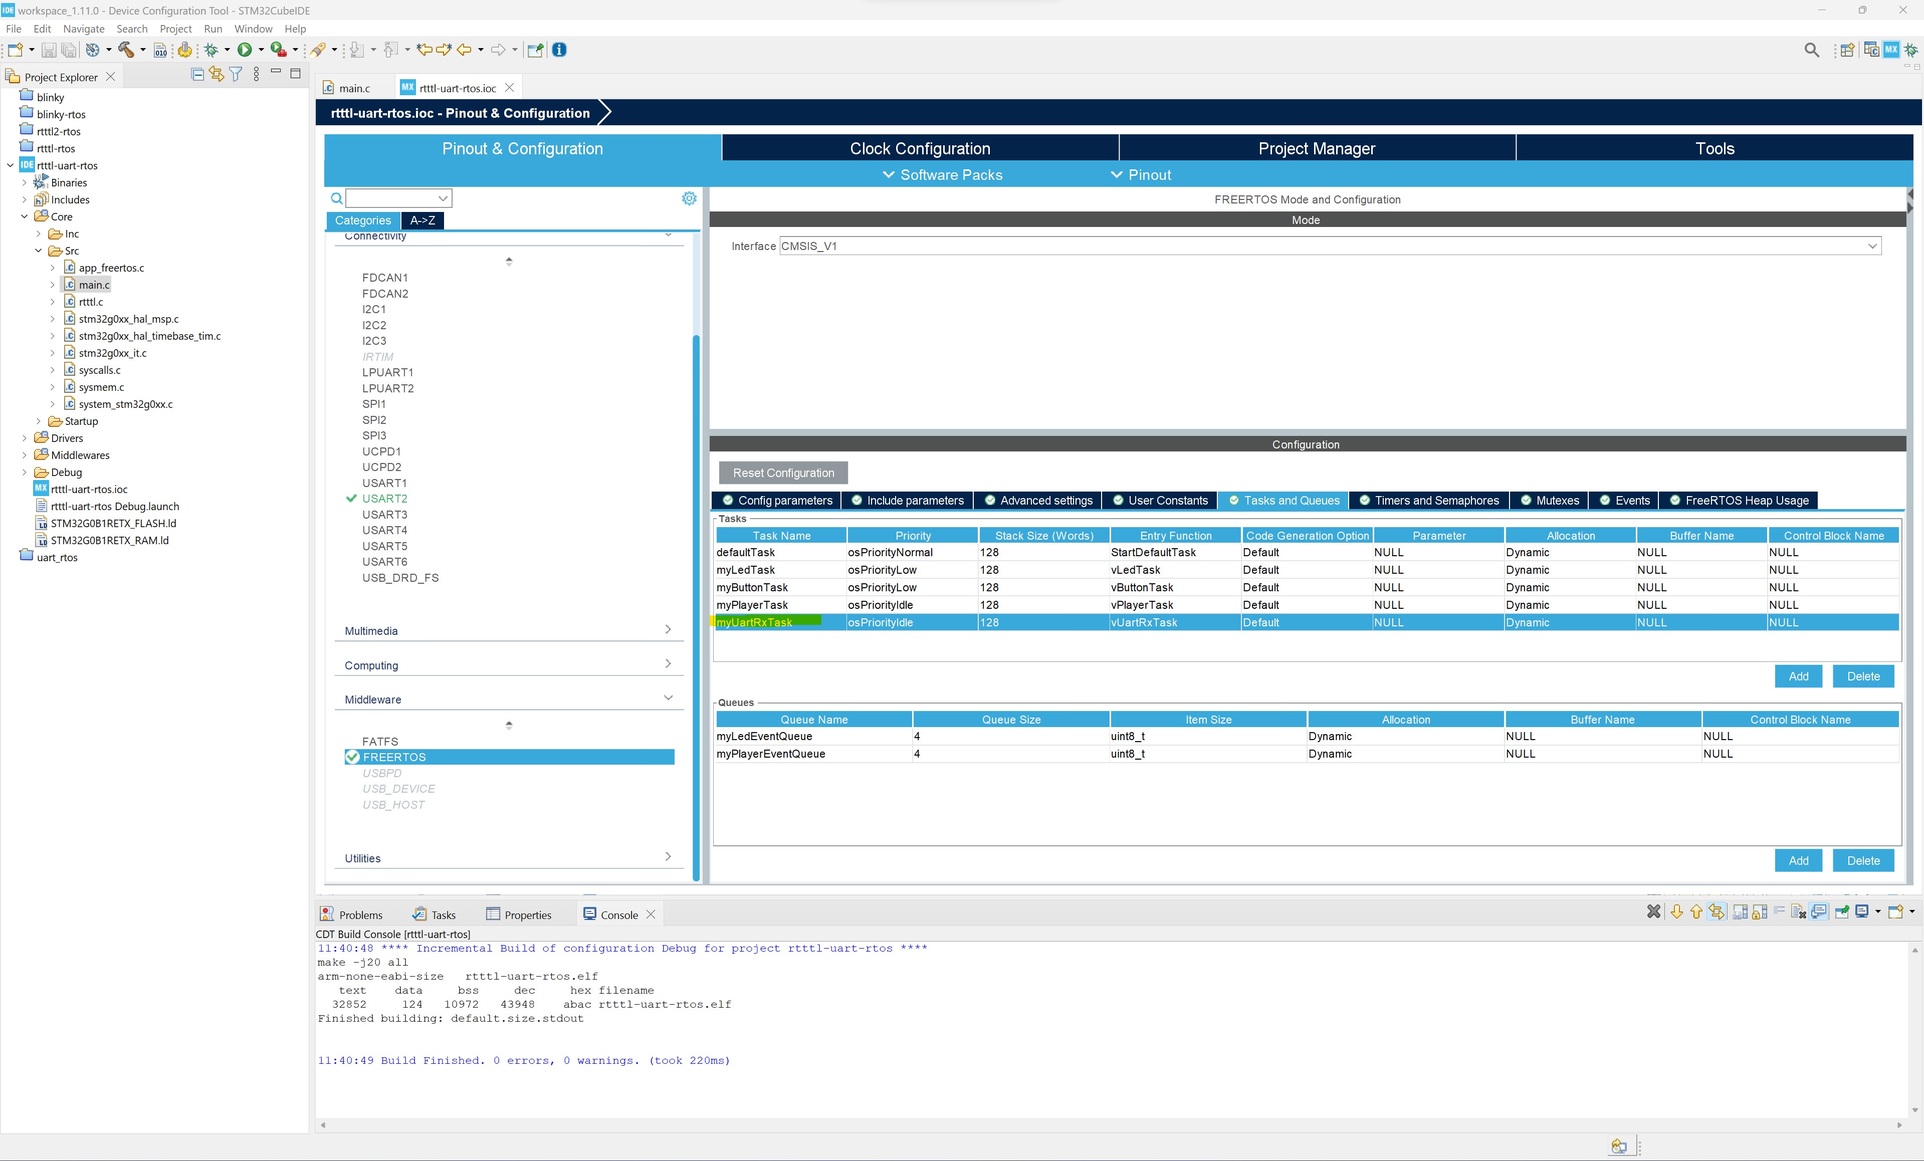
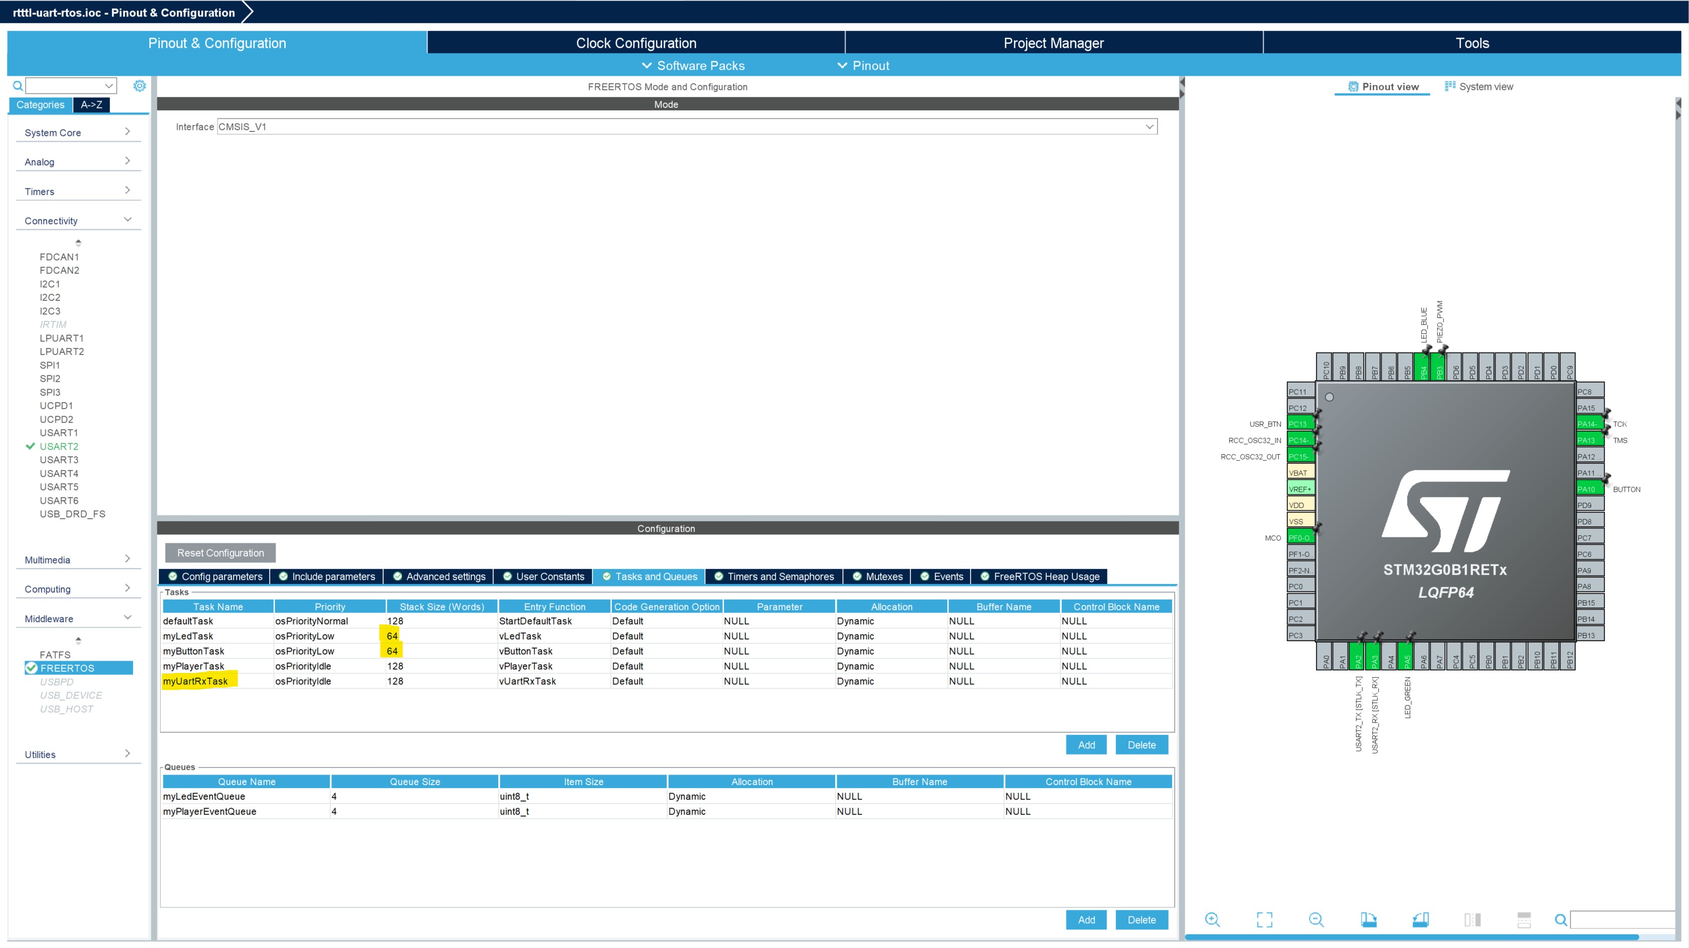
Ekspansjonskort
Oppdatert workshop til å bruke et ekspansjonskort i stedenfor kabelsalat og Aliexpress komponenter.

diff --git a/doc/3_blinky_rtos.md b/doc/3_blinky_rtos.md
@@ -9,12 +9,19 @@ Rammeverket har også verktøy som meldingskøer for å få oppgavene til å kom
 
 Mye spennende å lære om dette og en god referanse er å finne [her](http://www.disca.upv.es/aperles/arm_cortex_m3/curset/CMSIS/Documentation/RTOS/html/index.html).
 
-Vi skal lage 2 oppgaver(en knapp/button reader og en led blinker) og disse skal kommunisere med hverandre via en meldingskø. Button oppgaven skal gi beskjed til køen om når den oppdager en knapp-ned eller en knapp-opp event.  LED oppgaven skal ved knapp-ned event(definert med en '1') skru på den grønne lysdioden og ved knapp-opp event(definert med en '2') skru den av igjen.  
+Vi skal lage 2 oppgaver(en knapp/button reader og en led blinker) og disse skal kommunisere med hverandre via en meldingskø. Button oppgaven skal gi beskjed til køen om når den oppdager en knapp-ned eller en knapp-opp event.  LED oppgaven skal ved knapp-ned event(definert med en '1') skru på den blå lysdioden på ekspansjonskortet og ved knapp-opp event(definert med en '2') skru den av igjen.  
 
 Let's get going!
 
 ## Hardware Setup
-Koble Nucleo kortet til din pc med medfølgende USB kabel. På kortet er en grønn LED med designasjon LD4. Denne skal LED task kontrollere.  Det finnes også en trykk knapp med designasjon USER.  Denne skal Button task lese av.
+Påse at utviklingskortet er frakoblet USB. Monter ekspansjonskortet med Knowit logo på toppen av Nucleo utviklingskortet. 
+
+Se under for et bilde av riktig montert ekspansjonskort på utviklingskortet.
+
+![Nucleo med ekspansjon](./montert_ekpansjonskort.jpg)
+
+
+Koble Nucleo kortet til din pc med medfølgende USB kabel. På ekspansjonskortet er en blå LED med designasjon LED(koblet til pinne PB4). Denne skal LED task kontrollere.  Det finnes også en trykk knapp med designasjon BUTTON(koblet til pinne PA10).  Denne skal Button task lese av.
 
 ## Lage Et Nytt Prosjekt
 - Åpne opp STM32CubeIDE
@@ -24,21 +31,23 @@ Koble Nucleo kortet til din pc med medfølgende USB kabel. På kortet er en grø
 - Under Boards List, så vil vårt utviklingskort dukke opp.  Velg dette og trykk ```Next``` knappen.
 - Du vil nå få et vindu opp med ønsket project parametere.  Skriv inn ```blinky_rtos``` som projekt navn og la resten være med defaults. Trykk ```Finish``` knappen.
 - STM32CubeIDE vil nå laste ned nødvendige filer og lage prosjektet ditt.
-- I IDEen, så vil du bli presentert med en grafisk representasjon av blinky_rtos.ios filen, som er filen man spesifiserer microcontrollerens hardware ressurser man ønsker å bruke i prosjektet. Siden vi har valgt et allerede kjent utviklingskort, så kan man se at pinnene på mikrokontrolleren er allerede satt opp.
-- Legg merke til pinne ```PA5```, som har fått et alias navn ```LED_GREEN```. Denne skal vi bruke til LED tasken vår.
-- Legg merke til pinne ```PC13```, som har fått et alias navn ```SYS_WKUP2```.  Denne skal vi bruke til Button tasken vår. Venstre klikk på denne pinnen og velg så ```GPIO_Input```. Høyre klikk på denne pinnen og velg ```Enter User Label``` og skriv så ```USR_BTN```. MERK: Tidligere versjoner av STM32Cube SDK har definert denne pinnen som ```USR_BTN``` fra før, så bare dobbelsjekk at den er definert som en ```GPIO_Input```.
-- Ekspander ```System Core``` og underkategorien ```GPIO```. Klikk på ```PC13``` og velg ```pull-up``` under ```Confguration```.
+- I IDEen, så vil du bli presentert med en grafisk representasjon av blinky_rtos.ios filen, som er filen man spesifiserer microcontrollerens hardware ressurser man ønsker å bruke i prosjektet. Siden vi har valgt et allerede kjent utviklingskort, så kan man se at noen av pinnene på mikrokontrolleren er allerede satt opp.
+- Velg pinne ```PB4```. Gi denne et alias navn ved å høyre klikke på pinnen og velg 'Enter User Label'. Skriv inn ```LED_BLUE```. Venstre klikk på pinnen og velg ```GPIO_Output``` som funksjon for denne pinnen.  Denne skal vi bruke til LED tasken vår.
+- Velg pinne ```PA10```. Gi denne et alias navn ved å høyre klikke på pinnen og velg 'Enter User Label'. Skriv inn ```BUTTON```. Venstre klikk på pinnen og velg ```GPIO_Input``` som funksjon for denne pinnen.  Denne skal vi bruke til Button tasken vår.
+- Ekspander ```System Core``` og underkategorien ```GPIO```. Klikk på ```PA10``` og velg ```pull-down``` under ```Configuration```.
 - Ekspander ```Middleware``` folderen til venstre og velg ```FREERTOS```.
 - I ```FREERTOS Mode and Configuration``` menyen, så velger du ```CMSIS_V1``` i drop-down boksen.
-- Under ```Configuration``` seksjonen, så legger du til 2 tasks med ```Add``` knappen. Egenskapene du skal fylle inn kan du se i skjermbildet under. Lag så en Queue med tilhørende ```Add``` knapp, egenskapene du skal fylle inn ser du i skjermbildet under.
+- Under ```Configuration``` seksjonen og ```Tasks and Queues``` taben,  så legger du til 2 tasks med ```Add``` knappen. Egenskapene du skal fylle inn kan du se i skjermbildet under. Lag så en ```Queue``` med tilhørende ```Add``` knapp, egenskapene du skal fylle inn ser du i skjermbildet under.
 
 ![RTOS Config](./rtos_config.jpg)
 
+- Under ```Advanced settings``` taben i samme seksjon, så setter du feltet ```USE_NEWLIB_REENTRANT``` til ```Enabled```. Hvis vi ikke gjør dette, så vil verktøyet begynne å klage litt under kode genereringen.
 - Under ```System Core``` menyen på venstre siden, velg så ```SYS``` kategorien. Finn ```Time Base Source``` settingen og sett denne til ```TIM6```.  Se skjermbilde under for hvordan dette ser ut.  Dette steget gjøres fordi RTOS bruker en timer i controlleren for å holde styr på tiden som går under navnet SYSTICK.  HAL bibliotekene bruker i utgangspunktet også SYSTICK timeren, men dette endrer vi i dette steget til TIM6 timeren. Nå slipper RTOS og HAL funskjonene å gå i beina på hverandre!
 
 ![Time Base Setup](./sys_setup_rtos.jpg)
 
-- Under ```Project Explorer``` på venstre siden, ekspander ```Core``` folderen og så ```Src``` folderen. Du vil nå finne ```main.c``` filen, dobbelklikk på denne. Det er mulig du får en advarsel om ```USE_NEWLIB_REENTRANT```, ignorer denne for denne øvelsen.
+- Lagre endringene som har blitt gjort(ctrl s). Verktøyet vil nå spørre deg om den skal generere kode. Svar ja til dette. 
+- Under ```Project Explorer``` på venstre siden, ekspander ```Core``` folderen og så ```Src``` folderen. Du vil nå finne ```main.c``` filen, dobbelklikk på denne. Det er mulig du får en advarsel om ```USE_NEWLIB_REENTRANT```. Hvis det er tilfellet, så dobbelsjekk at du fikk gjort steget med å enable ```USE_NEWLIB_REENTRANT``` i tidligere steg.
 - Sjekk at prosjektet kompilerer ved å velge meny tittelen ```Project``` og så videre ```Build All```.
 - Hvis det går bra, så er du klar til å legge til litt kode!  Finn følgende seksjoner under i ```main.c``` filen og kopier inn kode som spesifisert.
 
@@ -59,6 +68,7 @@ Legg til følgende kode:
 /* USER CODE END PM */
 ```
 
+Finn denne seksjonen:
 ```Button Task```
 ```cpp
 ...
@@ -75,7 +85,7 @@ void vButtonTask(void const * argument)
 }
 ```
 
-Legg til følgende kode:
+Legg til følgende kode for denne seksjonen:
 
 ```cpp
 ...
@@ -90,7 +100,7 @@ void vButtonTask(void const * argument)
   for(;;)
   {
     osDelay(100);
-    curr_data = HAL_GPIO_ReadPin(USR_BTN_GPIO_Port, USR_BTN_Pin);
+    curr_data = HAL_GPIO_ReadPin(BUTTON_GPIO_Port, BUTTON_Pin);
 
     if (curr_data == GPIO_PIN_RESET && prev_data == GPIO_PIN_SET)
       osMessagePut(myEventQueueHandle, (uint32_t) BUTTON_PUSH_EVENT, 5);
@@ -104,6 +114,7 @@ void vButtonTask(void const * argument)
 }
 ```
 
+Finn denne seksjonen:
 ```Led Task```
 ```cpp
 ...
@@ -144,10 +155,10 @@ void vLedTask(void const * argument)
       curr_data = (uint8_t) event.value.v;
 
       if (curr_data == BUTTON_PUSH_EVENT)
-        HAL_GPIO_WritePin(LED_GREEN_GPIO_Port, LED_GREEN_Pin, GPIO_PIN_SET);
+        HAL_GPIO_WritePin(LED_BLUE_GPIO_Port, LED_BLUE_Pin, GPIO_PIN_SET);
 
       if (curr_data == BUTTON_RELEASE_EVENT)
-        HAL_GPIO_WritePin(LED_GREEN_GPIO_Port, LED_GREEN_Pin, GPIO_PIN_RESET);
+        HAL_GPIO_WritePin(LED_BLUE_GPIO_Port, LED_BLUE_Pin, GPIO_PIN_RESET);
     }
   }
   /* USER CODE END vLedTask */
@@ -156,5 +167,5 @@ void vLedTask(void const * argument)
 - Sjekk at prosjektet kompilerer ved å velge meny tittelen ```Project``` og så videre ```Build All```.
 - Hvis alt er ok, så kan du nå velge meny tittelen ```Run``` og så videre ```Run```. En pop up kan dukke opp med valg av debug konfigurasjon, aksepter defaults og gå videre.
 - I noen tilfeller så vil miljøet spørre om du ønsker å oppdatere firmware på debuggeren som sitter på utviklingskortet, si ja til dette.
-- Når prosessen er ferdig, så lastes din kode opp til kortet.  Du vil nå se at LED4 på kortet blinke av og på avhengig av når du trykker inn eller slipper knappen!
+- Når prosessen er ferdig, så lastes din kode opp til kortet.  Du vil nå se at BLUE LED på ekspansjonskortet blinke av og på avhengig av når du trykker inn eller slipper BUTTON knappen!
 - Gratulerer, du har nå laget et enkelt prosjekt med et sanntids operativ system for en STM32 mikrokontroller!  Dette kan være et spennende utganspunkt for å lage mere komplekse prosjektet med for eksempel en oppgave som implementerer en tilstandsmaskin basert på sensor verdier som puttes inn i en kø fra en oppgave som leser sensorer. 

diff --git a/doc/4_rtttl_player.md b/doc/4_rtttl_player.md
@@ -3,27 +3,14 @@
 ## Oversikt
 I denne leksjonen skal du lære hvordan du kan lage en artig [RTTTL](https://en.wikipedia.org/wiki/Ring_Tone_Text_Transfer_Language) player ved å bruke alt du har lært i de tidligere leksjonene pluss en del nytt vi skal gå igjennom i denne leksjonen. 
 
-Vi skal benytte oss av 3 RTOS tasks(oppgaver).  Vi skal gjenbruke oppgavene fra forrige øvelse, dvs knapp og led oppgavene.  Den tredje oppgaven skal vi lage nå og den vil spille en sang ved å sette forskjellige telle verdier på en timer.  Utgangen på timeren vil generere firkantpulser med varierende duty cycle som vil generere forskjellige toner på piezo elementet som vi kobler til.  Gøy!
+Vi skal benytte oss av 3 RTOS tasks(oppgaver).  Vi skal gjenbruke oppgavene fra forrige øvelse, dvs knapp og led oppgavene.  Den tredje oppgaven skal vi lage nå og den vil spille en sang ved å sette forskjellige telle verdier på en timer.  Utgangen på timeren vil generere firkantpulser med varierende duty cycle som vil generere forskjellige toner på piezo elementet som finnes på ekspansjonskortet.  Gøy!
 
-Et vanlig oppsett når man utvikler i RTOS er at hver task har sin egen input queue som de titter på for nye ting oppgaven skal gjøre.  I denne oppgaven så følger vi dette med at led og player taskene har hver sin queue, hvor button task vil legge til meldinger i disse for hvert knappetrykk.
+Et vanlig oppsett når man utvikler i RTOS er at hver task har sin egen input queue som de titter på for nye ting oppgaven skal gjøre. I denne oppgaven så følger vi dette med at led og player taskene har hver sin queue, hvor button task vil legge til meldinger i disse for hvert knappetrykk.
 
 Let's get going!
 
 ## Hardware Setup
-Koble Nucleo kortet til din pc med medfølgende USB kabel. Koble utviklingskortet til piezo elementet med den 3 tråds ledningen som anvist på tegningene under.
-
-Overview
-![Piezo Hook Up Overview](./piezo_overview.jpg)
-
-Closeup
-![Piezo Hook up Closeup](./piezo_closeup.jpg)
-
-### Koblingstabell
-| Pinne, Utviklerkort | Pinne, Piezo | Signal |
-|---------------------|--------------|--------|
-|          20         |      GND     |   GND  |
-|          16         |      VCC     |  3.3V  |
-|          1          |      I/O     |   I/O  |
+Koble Nucleo kortet med ekspansjonskortet montert til din pc med medfølgende USB kabel.
 
 ## Lage Et Nytt Prosjekt
 - Åpne opp STM32CubeIDE
@@ -31,10 +18,11 @@ Closeup
 - Finn og velg ```blinky_rtos.ios``` filen fra forrige øvelse.
 - Du vil nå få et vindu opp med ønsket project parametere.  Skriv inn ```rtttl-rtos``` som projekt navn og la resten være med defaults. Trykk ```Finish``` knappen.
 - STM32CubeIDE vil nå laste ned nødvendige filer og lage prosjektet ditt.
-- Det er mulig IDEen vil gi deg en warning, klikk på at du vil fortsatt generere kode.
+- Det er mulig IDEen vil gi deg en advarsel, klikk på at du vil fortsatt generere kode.
 - I IDEen, så vil du bli presentert med en grafisk representasjon av rtttl_rtos.ios filen, som er filen man spesifiserer microcontrollerens hardware ressurser man ønsker å bruke i prosjektet. Siden vi har valgt et allerede kjent utviklingskort, så kan man se at pinnene på mikrokontrolleren er allerede satt opp.
-- Venstre klikk på PC10 pinnen. Velg ```TIM1_CH3 ```.  Her spesifiserer vi at vi ønsker å bruke denne pinnen som en utgang fra hardware timeren TIM1 og utgang 3 fra denne. Du vil se at denne skifter farge til gul, dette fordi vi ikke har konfigurert timeren enda.
-- På venstre side, ekspander ```Timers ``` dropdown og velg ```TIM1```. På ```Channel3```, velg ```PWM Generation CH3```.  Sjekk bilde under for verifikasjon. Under ```Configuration``` seksjonen, påse at PWM Mode 1 er valgt for ```PWM Generation Channel 3```.
+- Venstre klikk på ```PB3``` pinnen. Velg ```TIM1_CH2 ```.  Her spesifiserer vi at vi ønsker å bruke denne pinnen som en utgang fra hardware timeren TIM1 og utgang 2 fra denne. Du vil se at denne skifter farge til gul, dette fordi vi ikke har konfigurert timeren enda.
+- Høyre klikk på ```PB3``` pinnen og velg ```Enter User Label```. Skirv inn navnet ```PIEZO_PWM```.
+- På venstre side, ekspander ```Timers ``` dropdown og velg ```TIM1```. På ```Channel2```, velg ```PWM Generation CH2```.  Sjekk bilde under for verifikasjon. Under ```Configuration``` seksjonen, påse at PWM Mode 1 er valgt for ```PWM Generation Channel 2```.
 
 ![TIM1 setup](./timer_setup.jpg)
 
@@ -47,6 +35,7 @@ Closeup
 
 ![RTOS Config Player](./sys_setup_rtos_player.jpg)
 
+- Sjekk at ```USE_NEWLIB_REENTRANT``` er fortsatt satt til ```Enabled``` under ```Advanced Settings```.
 - Under ```Project Explorer``` på venstre siden, ekspander ```Core``` folderen og så ```Src``` folderen. Du vil nå finne ```main.c``` filen, dobbelklikk på denne. IDEen vil nok spørre om du vil generere kode først, si ja til dette.
 - Sjekk at prosjektet kompilerer ved å velge meny tittelen ```Project``` og så videre ```Build All```.
 - Hvis det går bra, så er du klar til å legge til litt mere kode!  Finn følgende seksjoner under i ```main.c``` filen og kopier inn kode som spesifisert.
@@ -120,7 +109,7 @@ Legg til følgende kode:
 ...
 /* USER CODE BEGIN 2 */
 rtttl_info.tim_ref = &htim1;
-rtttl_info.tim_channel = TIM_CHANNEL_3;
+rtttl_info.tim_channel = TIM_CHANNEL_2;
 /* USER CODE END 2 */
 
 ```
@@ -140,7 +129,7 @@ void vButtonTask(void const *argument) {
   /* Infinite loop */
   for (;;) {
     osDelay(100);
-    curr_data = HAL_GPIO_ReadPin(USR_BTN_GPIO_Port, USR_BTN_Pin);
+    curr_data = HAL_GPIO_ReadPin(BUTTON_GPIO_Port, BUTTON_Pin);
 
     if (curr_data == GPIO_PIN_RESET && prev_data == GPIO_PIN_SET) {
       osMessagePut(myLedEventQueueHandle, (uint32_t) BUTTON_PUSH_EVENT, 0);
@@ -179,10 +168,10 @@ void vLedTask(void const *argument) {
       curr_data = (uint8_t) event.value.v;
 
       if (curr_data == BUTTON_PUSH_EVENT)
-        HAL_GPIO_WritePin(LED_GREEN_GPIO_Port, LED_GREEN_Pin, GPIO_PIN_SET);
+        HAL_GPIO_WritePin(LED_BLUE_GPIO_Port, LED_BLUE_Pin, GPIO_PIN_SET);
 
       if (curr_data == BUTTON_RELEASE_EVENT)
-        HAL_GPIO_WritePin(LED_GREEN_GPIO_Port, LED_GREEN_Pin, GPIO_PIN_RESET);
+        HAL_GPIO_WritePin(LED_BLUE_GPIO_Port, LED_BLUE_Pin, GPIO_PIN_RESET);
     }
   }
   /* USER CODE END vLedTask */
@@ -233,5 +222,5 @@ void vPlayerTask(void const *argument) {
 - Sjekk at prosjektet kompilerer ved å velge meny tittelen ```Project``` og så videre ```Build All```.
 - Hvis alt er ok, så kan du nå velge meny tittelen ```Run``` og så videre ```Run```. En pop up kan dukke opp med valg av debug konfigurasjon, aksepter defaults og gå videre.
 - I noen tilfeller så vil miljøet spørre om du ønsker å oppdatere firmware på debuggeren som sitter på utviklingskortet. Si ja til dette.
-- Når prosessen er ferdig, så lastes din kode opp til kortet.  Du vil nå se at LD4/LED GREEN på kortet blinke av og på avhengig av når du trykker inn eller slipper knappen. Du vil også høre en sang spille hvis alt er riktig kodet og koblet opp! Ved å trykke inn knappen igjen, så vil avspillingen avsluttes. 
+- Når prosessen er ferdig, så lastes din kode opp til kortet.  Du vil nå se at LED_BLUE på kortet blinke av og på avhengig av når du trykker inn eller slipper knappen. Du vil også høre en sang spille hvis alt er riktig kodet og koblet opp! Ved å trykke inn knappen igjen, så vil avspillingen avsluttes. 
 - Gratulerer, du har nå laget et enkelt prosjekt med et sanntids operativ system for en STM32 mikrokontroller som spiller musikk!

diff --git a/doc/5_rtttl_player_uart.md b/doc/5_rtttl_player_uart.md
@@ -26,9 +26,12 @@ Vi gjenbruker samme oppsett som i leksjon 4.
 
 - Ekspander ```Middleware``` folderen til venstre og velg ```FREERTOS```.
 
-- Under ```Configuration``` seksjonen, så legger du til en ```Task``` med ```Add``` knappen i tillegg til de andre taskene vi definerte i forrige oppgave. Egenskapene du skal fylle inn kan du se i skjermbildet under.
+- Vi må justere stack reservasjonen til alle taskene for å få nok minne til applikasjonen. Under ```Configuration``` seksjonen, klikk på ```Config Parameters``` og endre verdien til ```MINIMAL_STACK_SIZE``` til 64.
+
+- Under ```Configuration``` seksjonen, så legger du til en ```Task``` med ```Add``` knappen i tillegg til de andre taskene vi definerte i forrige oppgave. Egenskapene du skal fylle inn kan du se i skjermbildet under. Husk å oppdatere stack size til led og button oppgavene til 64, slik bildet viser.
 
 ![Rtos_Uart_Task](./rtos_uart_task.jpg)
+
 
 - Under ```Project Explorer``` på venstre siden, ekspander ```Core``` folderen og så ```Src``` folderen. Du vil nå finne ```main.c``` filen, dobbelklikk på denne. IDEen vil nok spørre om du vil generere kode først, si ja til dette.
 - Sjekk at prosjektet kompilerer ved å velge meny tittelen ```Project``` og så videre ```Build All```.
@@ -114,7 +117,7 @@ Legg til følgende kode:
 ...
 /* USER CODE BEGIN 2 */
 rtttl_info.tim_ref = &htim1;
-rtttl_info.tim_channel = TIM_CHANNEL_3;
+rtttl_info.tim_channel = TIM_CHANNEL_2;
 // Initiate uart rx with interrupt
 HAL_UART_Receive_IT(&huart2, (uint8_t *)aRxBuffer, 1);
 /* USER CODE END 2 */
@@ -188,7 +191,7 @@ void vButtonTask(void const *argument) {
   /* Infinite loop */
   for (;;) {
     osDelay(100);
-    curr_data = HAL_GPIO_ReadPin(USR_BTN_GPIO_Port, USR_BTN_Pin);
+    curr_data = HAL_GPIO_ReadPin(BUTTON_GPIO_Port, BUTTON_Pin);
 
     if (curr_data == GPIO_PIN_RESET && prev_data == GPIO_PIN_SET) {
 			osMessagePut(myLedEventQueueHandle, (uint32_t) BUTTON_PUSH_EVENT, 0);
@@ -280,8 +283,8 @@ void vUartRxTask(void const * argument)
 - Sjekk at prosjektet kompilerer ved å velge meny tittelen ```Project``` og så videre ```Build All```.
 - Hvis alt er ok, så kan du nå velge meny tittelen ```Run``` og så videre ```Run```. En pop up kan dukke opp med valg av debug konfigurasjon, aksepter defaults og gå videre.
 - I noen tilfeller så vil miljøet spørre om du ønsker å oppdatere firmware på debuggeren som sitter på utviklingskortet. Si ja til dette.
-- Når prosessen er ferdig, så lastes din kode opp til kortet.  Du vil nå se at LD4/LED GREEN på kortet blinke av og på avhengig av når du trykker inn eller slipper knappen. Du vil også høre en sang spille hvis alt er riktig kodet og koblet opp! Ved å trykke inn knappen igjen, så vil avspillingen avsluttes.
-- Start opp en serie port terminal, som for eksempel ```Termite``` for Windows eller ```CoolTerm``` for andre platformer.
+- Når prosessen er ferdig, så lastes din kode opp til kortet.  Du vil nå se at LED BLUE på kortet blinke av og på avhengig av når du trykker inn eller slipper knappen. Du vil også høre en sang spille hvis alt er riktig kodet og koblet opp! Ved å trykke inn knappen igjen, så vil avspillingen avsluttes.
+- Start opp en serie port terminal, som for eksempel ```Termite``` for Windows eller ```CoolTerm``` for andre platformer. Velg 115200 som baud rate.
 - Send over følgende tekst over serieporten, det kan være enklere å skru på makro funksjonen i terminal programmet og programmere en F tast til å inneholde denne strengen.
 
 ```

diff --git a/doc/1_ide_primer.md b/doc/1_ide_primer.md
@@ -9,6 +9,8 @@ STM32CubeIDE består av et komplett miljø for å kunne drive med kode genererin
 ## Hardware
 Vi skal benytte oss av en enhet som heter en microcontroller i denne workshoppen. En microcontroller er kort fortalt en liten datamaskin integrert i en chip som inneholder alle komponenter(cpu, program minne, data minne og perifere input/output kretser) en trenger for å lagre og kjøre programmer og kommunisere med omverdenen.  Det finnes mange merker og typer og nå om dagen er kanskje AVR, ARM og ESP32 baserte microcontrollere de mest kjente. ARM er litt interessant siden arkitekturen er utviklet av et selskap som heter ARM og chip produsenter kan så lisensiere dette designet for å lage sine microcontrollere.  Microchip, NXP, Samsung, Apple og ST Electronics er noen av disse og i denne workshopen skal vi benytte oss en ARM basert microcontroller laget av ST Electronics.
 
+Et ekspansjonskort har også blitt laget for å forenkle uttesting av forskjellige typer funksjonalitet som en del av denne workshoppen.
+
 ## Software
 STM32CubeIDE software har en lagvis tilnærming til software utviklingen.  
 

diff --git a/doc/2_blinky.md b/doc/2_blinky.md
@@ -8,6 +8,8 @@ Koble Nucleo kortet til din pc med medfølgende USB kabel. På kortet er en grø
 
 ![Nucleo](./dev_board.jpg)
 
+Ekspansjonskortet brukes ikke i denne øvelsen og skal ikke plugges inn enda.
+
 ## Lage Et Nytt Prosjekt
 - Åpne opp STM32CubeIDE
 - Velg ```Start new STM32 project```
